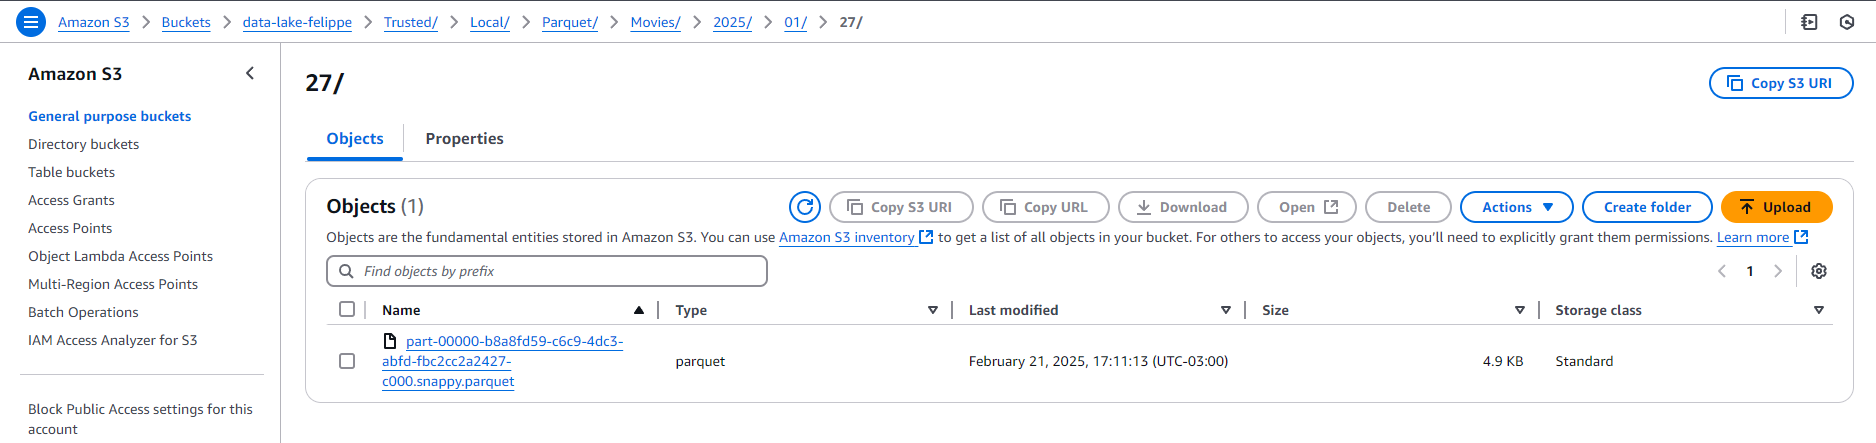
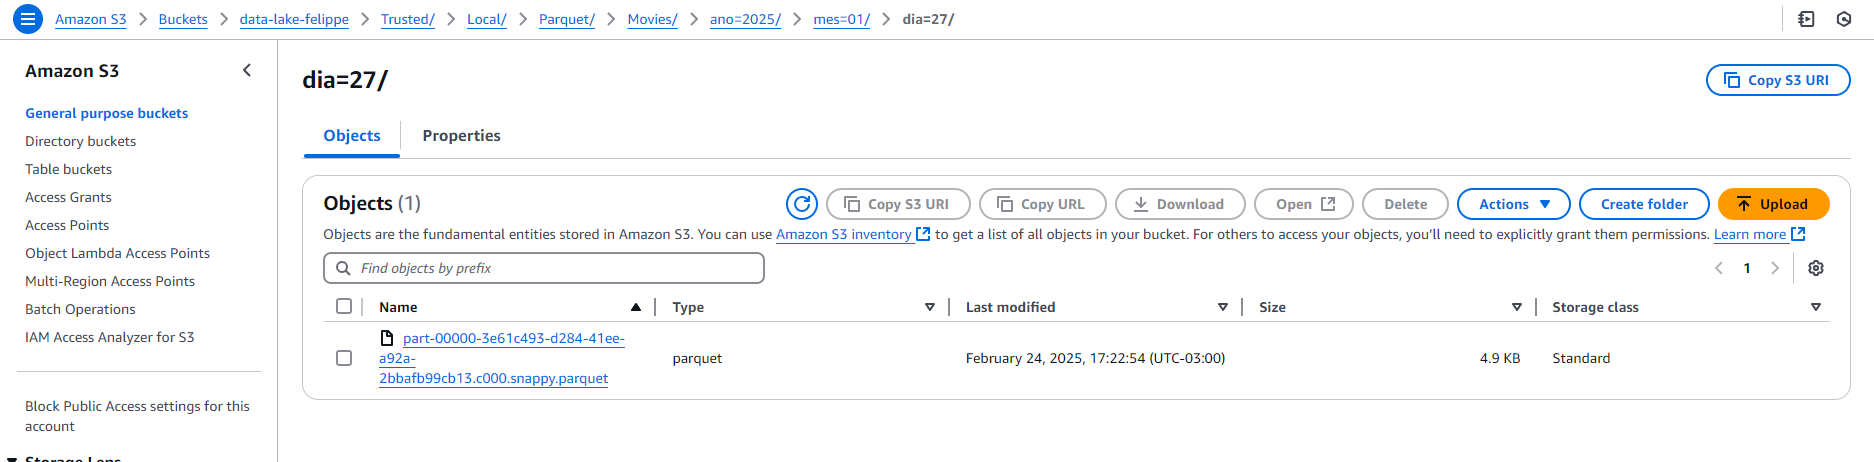
Mudanças no Readme

diff --git a/Sprint08/Desafio/README.md b/Sprint08/Desafio/README.md
@@ -15,8 +15,14 @@ O Desafio  foca no processamento da camada Trusted de um data lake, onde os dado
 - [O Desafio](#o-desafio)
   - [Job CSV](#job-csv)
   - [Resultados](#resultados)
+    - [Camada raw data](#camada-raw-data)
+    - [Camada trusted data](#camada-trusted-data)
+    - [Athena](#athena)
   - [Job Json](#job-json)
   - [Resultados](#resultados-1)
+    - [Camada raw data](#camada-raw-data-1)
+    - [Camada trusted data](#camada-trusted-data-1)
+    - [Athena](#athena-1)
 
 
 ## Tema do desafio 
@@ -108,6 +114,7 @@ job = Job(glueContext)
 args = getResolvedOptions(sys.argv, ["JOB_NAME", "S3_INPUT_PATH", "S3_TARGET_PATH"])
 job.init(args["JOB_NAME"], args)
 
+# Extração de ano, mês e dia do caminho de entrada
 match = re.search(r"(\d{4})/(\d{2})/(\d{2})", args["S3_INPUT_PATH"])
 ano, mes, dia = match.groups()  
 
@@ -136,8 +143,14 @@ job.commit()
 
 ## Resultados
 
+
+### Camada raw data
+![Foto 1](../Evidencias/data_raw_csv.png)
+
+### Camada trusted data
 ![Foto 1](../Evidencias/csv.png)
 
+### Athena
 ![Foto 2](../Evidencias/csv_table1.png)
 
 ![Foto 3](../Evidencias/csv_table2.png)
@@ -193,12 +206,18 @@ job.commit()
 
 
 ```
-
+ 
 
 ## Resultados
+### Camada raw data
+![Foto 1](../Evidencias/data_raw_json.png)
 
+
+### Camada trusted data
 ![Foto 1](../Evidencias/json.png)
 
+
+### Athena
 ![Foto 2](../Evidencias/json_table1.png)
 
 ![Foto 3](../Evidencias/json_table2.png)
